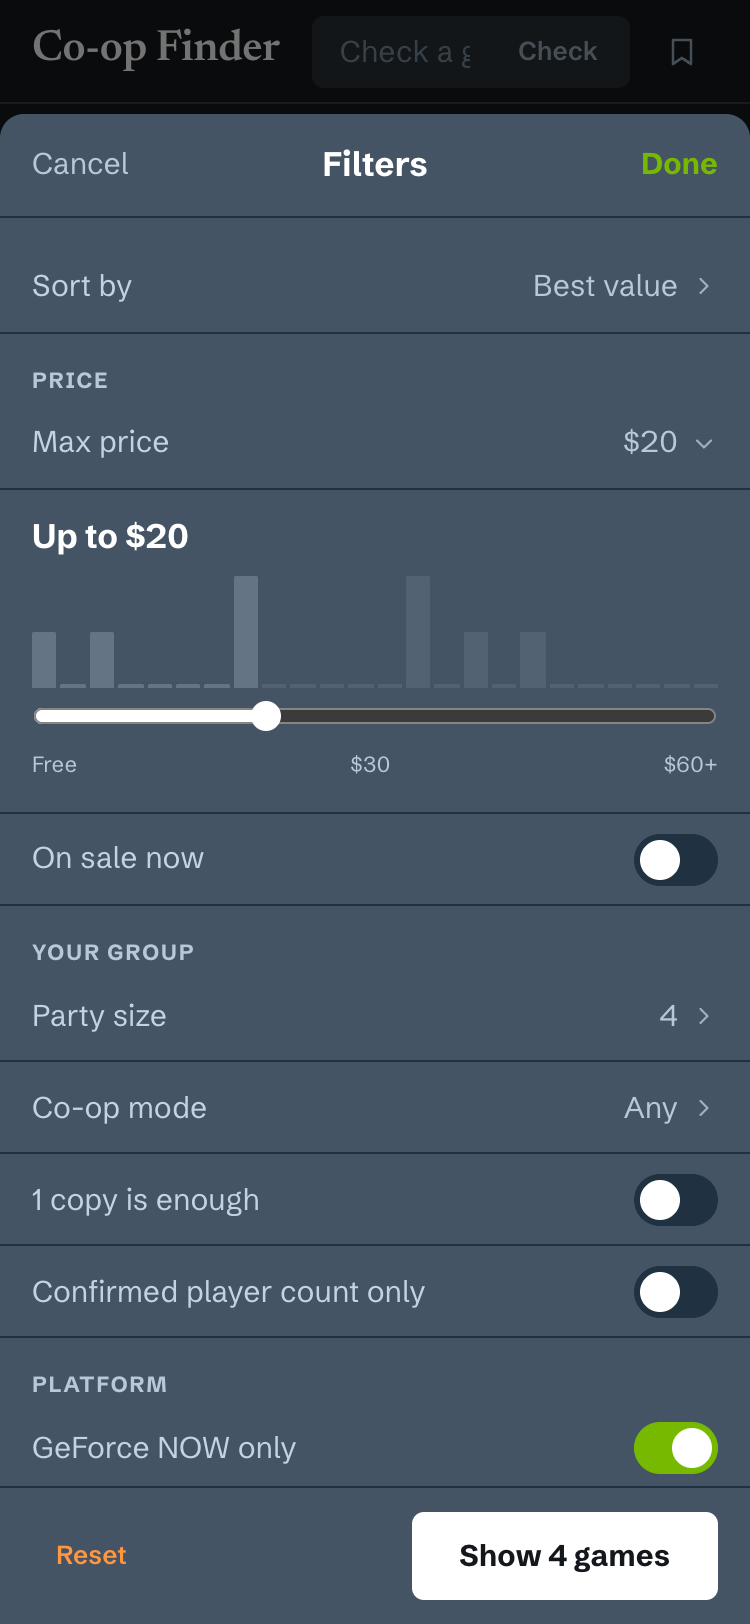
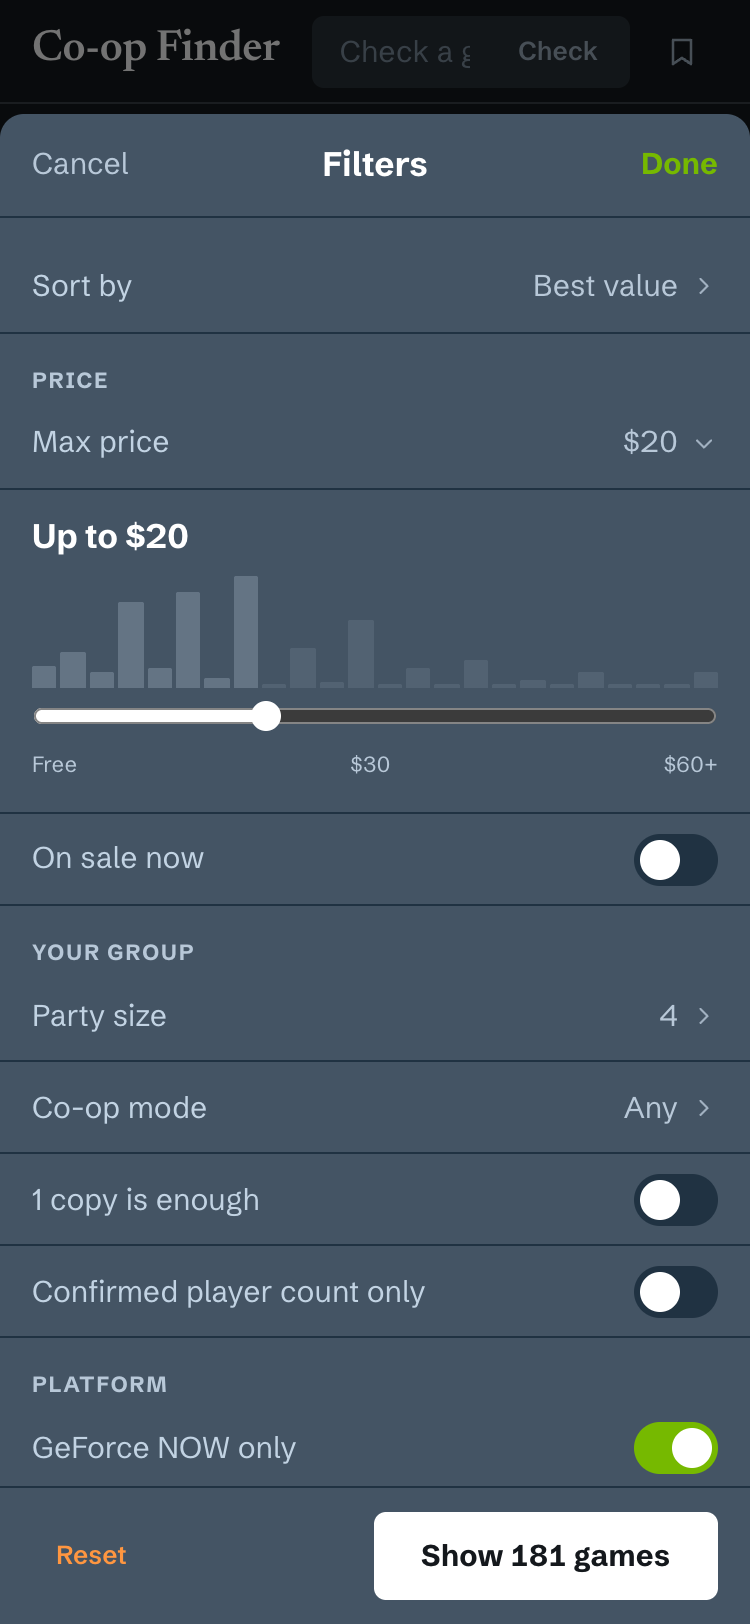
Bootstrap above-the-fold data at build time; accessible names from visible text; add Stardew Valley and Golf With Your Friends to picks

Changed region(s): [[0.0307, 0.3387, 0.3067, 0.431], [0.4907, 0.9236, 0.7667, 0.9852]]

diff --git a/src/components/Card.tsx b/src/components/Card.tsx
@@ -3,16 +3,16 @@ import { compact, groupCost, modeChips, oneCopy, playersLabel, usd, usdShort } f
 import { steamStoreUrl } from '../lib/data';
 import { Icon } from './icons';
 
-type ArtProps = { game: Game; eager?: boolean; wide?: boolean; children?: preact.ComponentChildren };
+type ArtProps = { game: Game; eager?: boolean; wide?: boolean; alt?: string; children?: preact.ComponentChildren };
 
 /** Fixed-ratio art box: portrait capsule, or the header image center-cropped when there is none. */
-export function Art({ game, eager = false, wide = false, children }: ArtProps) {
+export function Art({ game, eager = false, wide = false, alt, children }: ArtProps) {
   const src = wide ? game.img : game.cap ?? game.img;
   return (
     <div class={`art ${wide ? 'wide' : ''}`}>
       <img
         src={src}
-        alt=""
+        alt={alt ?? ''}
         width={wide ? 460 : 600}
         height={wide ? 215 : 900}
         loading={eager ? 'eager' : 'lazy'}
@@ -47,10 +47,10 @@ export function GameCard({ game: g, party, preferLocal, saved, showEa, eager, ta
   const one = oneCopy(g);
   return (
     <article class="card">
-      <a href={steamStoreUrl(g.id)} target="_blank" rel="noopener" aria-label={`${g.name} on Steam`} title="Open the Steam store page">
-        <Art game={g} eager={eager}>
+      <a href={steamStoreUrl(g.id)} target="_blank" rel="noopener" title="Open the Steam store page">
+        <Art game={g} eager={eager} alt={`${g.name} on Steam`}>
           {showEa && g.ea ? (
-            <div class="corner">
+            <div class="corner" aria-hidden="true">
               <span class="badge ea">Early Access</span>
             </div>
           ) : null}
@@ -59,7 +59,7 @@ export function GameCard({ game: g, party, preferLocal, saved, showEa, eager, ta
       <button class={`save ${saved ? 'on' : ''}`} onClick={() => onToggleSave(g)} aria-label={saved ? 'Remove from shortlist' : 'Add to shortlist'} aria-pressed={saved}>
         {saved ? <Icon.Check /> : <Icon.Plus />}
       </button>
-      <button class="details" onClick={() => onOpen(g)} aria-label={`Details for ${g.name}`}>
+      <button class="details" onClick={() => onOpen(g)}>
       <div class="name">{g.name}</div>
       <div class="price num">
         {g.price.free ? <span class="free">Free</span> : <span>{usd(g.price.now)}</span>}
@@ -113,17 +113,17 @@ type PosterProps = { game: Game; rank?: number; onOpen: (g: Game) => void; showE
 export function PosterCard({ game: g, rank, onOpen, showEa, eager }: PosterProps) {
   return (
     <div class="poster-card">
-      <a href={steamStoreUrl(g.id)} target="_blank" rel="noopener" aria-label={`${g.name} on Steam`} title="Open the Steam store page">
-        <Art game={g} eager={eager}>
-          {rank ? <span class="rank num">{rank}</span> : null}
+      <a href={steamStoreUrl(g.id)} target="_blank" rel="noopener" title="Open the Steam store page">
+        <Art game={g} eager={eager} alt={`${g.name} on Steam`}>
+          {rank ? <span class="rank num" aria-hidden="true">{rank}</span> : null}
           {showEa && g.ea ? (
-            <div class="corner">
+            <div class="corner" aria-hidden="true">
               <span class="badge ea">EA</span>
             </div>
           ) : null}
         </Art>
       </a>
-      <button class="caption" onClick={() => onOpen(g)} aria-label={`Details for ${g.name}`}>
+      <button class="caption" onClick={() => onOpen(g)}>
         <div class="name">{g.name}</div>
         <div class="meta num">
           <span class="pct">{g.rev.pct}%</span>
@@ -141,10 +141,10 @@ type EditorialProps = { game: Game; onOpen: (g: Game) => void; best?: string | n
 export function EditorialCard({ game: g, onOpen, best, eager }: EditorialProps) {
   return (
     <div class="edit-card">
-      <a href={steamStoreUrl(g.id)} target="_blank" rel="noopener" aria-label={`${g.name} on Steam`} title="Open the Steam store page">
-        <Art game={g} wide eager={eager} />
+      <a href={steamStoreUrl(g.id)} target="_blank" rel="noopener" title="Open the Steam store page">
+        <Art game={g} wide eager={eager} alt={`${g.name} on Steam`} />
       </a>
-      <button class="body" onClick={() => onOpen(g)} aria-label={`Details for ${g.name}`}>
+      <button class="body" onClick={() => onOpen(g)}>
         <span class="label">Crew pick{best ? ` · best with ${best}` : ''}</span>
         <span class="title">{g.name}</span>
         <span class="line">{g.pick}</span>

diff --git a/vite.config.ts b/vite.config.ts
@@ -1,5 +1,57 @@
 import { defineConfig, type Plugin } from 'vite';
 import preact from '@preact/preset-vite';
+import { existsSync, readFileSync } from 'node:fs';
+
+type BootGame = {
+  id: number;
+  img: string;
+  cap: string | null;
+  price: { now: number; off: number };
+  rev: { pos: number; neg: number; pct: number };
+  players: { online: number | null } | null;
+  gfn: { ok: boolean };
+  ea: boolean;
+  leftEaAt: string | null;
+  value: number;
+  pick: string | null;
+  mmo: boolean;
+};
+
+/**
+ * Inline the part of the bundled snapshot that the default home view paints
+ * above the fold, so the first render (and the LCP image) does not wait for the
+ * 1.7 MB games.json. The live file replaces it as soon as it arrives. The
+ * filter rules here mirror src/lib/filters.ts for the default filters only.
+ */
+function bootstrapData(): Plugin {
+  const file = new URL('./public/data/games.fallback.json', import.meta.url).pathname;
+  return {
+    name: 'bootstrap-data',
+    transformIndexHtml(html) {
+      if (!existsSync(file)) return html;
+      const d = JSON.parse(readFileSync(file, 'utf8')) as { generatedAt: string; tagNames: string[]; games: BootGame[] };
+      const n = (g: BootGame) => g.rev.pos + g.rev.neg;
+      const base = d.games.filter((g) => !g.ea && g.gfn.ok && !g.mmo && g.price.now <= 2000);
+      const grid = base
+        .filter((g) => g.rev.pct >= 85 && n(g) >= 200 && (g.players?.online == null || g.players.online >= 4))
+        .sort((a, b) => b.value - a.value)
+        .slice(0, 36);
+      const byValue = (a: BootGame, b: BootGame) => b.value - a.value;
+      const cutoff = Date.now() - 90 * 86400_000;
+      const picks = base.filter((g) => g.pick).sort(byValue).slice(0, 12);
+      const gems = base.filter((g) => g.rev.pct >= 90 && n(g) >= 200 && n(g) <= 5000 && g.price.now <= 1500).sort(byValue).slice(0, 12);
+      const sale = base.filter((g) => g.price.off > 0 && n(g) >= 200 && g.rev.pct >= 80).sort((a, b) => b.price.off - a.price.off || b.value - a.value).slice(0, 12);
+      const leftEa = base.filter((g) => g.leftEaAt && Date.parse(g.leftEaAt) >= cutoff && n(g) >= 200).sort((a, b) => (a.leftEaAt! < b.leftEaAt! ? 1 : -1)).slice(0, 12);
+      const chosen = new Map<number, BootGame>();
+      for (const g of [...picks, ...gems, ...sale, ...leftEa, ...grid]) chosen.set(g.id, g);
+      const subset = { generatedAt: d.generatedAt, tagNames: d.tagNames, games: [...chosen.values()], partial: true };
+      const json = JSON.stringify(subset).replace(/</g, '\\u003c');
+      const lcp = picks[0]?.img ?? gems[0]?.cap ?? grid[0]?.cap;
+      const preload = lcp ? `<link rel="preload" as="image" href="${lcp}" fetchpriority="high" />\n    ` : '';
+      return html.replace('</head>', `    ${preload}<script id="bootstrap" type="application/json">${json}</script>\n  </head>`);
+    },
+  };
+}
 
 /** Inline the single CSS bundle into index.html so first paint does not wait on a stylesheet request. */
 function inlineCss(): Plugin {
@@ -24,7 +76,7 @@ function inlineCss(): Plugin {
 }
 
 export default defineConfig({
-  plugins: [preact(), inlineCss()],
+  plugins: [preact(), bootstrapData(), inlineCss()],
   resolve: {
     alias: { '@shared': new URL('./shared', import.meta.url).pathname },
   },

diff --git a/src/app.tsx b/src/app.tsx
@@ -1,7 +1,7 @@
 import { useCallback, useEffect, useMemo, useRef, useState } from 'preact/hooks';
 import type { Game } from '@shared/types';
 import { TAG_FILTER_COUNT } from '@shared/config';
-import { loadDataset, type LoadedData } from './lib/data';
+import { loadDataset, readBootstrap, type LoadedData } from './lib/data';
 import { applyFilters, buildRows, defaultFilters, filtersFromParams, filtersToParams, isDefault, priceHistogram, summarize, weightedPick, type Filters } from './lib/filters';
 import { copyText, readShortlist, shortlistText, writeShortlist } from './lib/shortlist';
 import { TopBar } from './components/TopBar';
@@ -40,9 +40,11 @@ function urlFor(s: UrlState): string {
 }
 
 export function App() {
-  const [data, setData] = useState<LoadedData | null>(null);
-  const [loadError, setLoadError] = useState<string | null>(null);
   const [url, setUrlState] = useState<UrlState>(() => readUrl());
+  const [data, setData] = useState<LoadedData | null>(() =>
+    isDefault(url.filters) && url.view === 'home' && !url.check && !url.detailId ? readBootstrap() : null,
+  );
+  const [loadError, setLoadError] = useState<string | null>(null);
   const [filtersOpen, setFiltersOpen] = useState(false);
   const [draft, setDraft] = useState<Filters | null>(null); // filters being edited in the mobile sheet
   const [pick, setPick] = useState<Game | null | undefined>(undefined); // undefined = closed
@@ -76,8 +78,10 @@ export function App() {
   // ---- derived
   const games = data?.dataset.games ?? [];
   const tagNames = data?.dataset.tagNames ?? [];
+  const partial = !!data?.partial;
   const tagIndex = useMemo(() => new Map(tagNames.map((t, i) => [t, i])), [tagNames]);
   const tagOptions = useMemo(() => {
+    if (partial) return [];
     const freq = new Map<number, number>();
     for (const g of games) for (const t of g.tags) freq.set(t, (freq.get(t) ?? 0) + 1);
     return [...freq.entries()]
@@ -85,7 +89,7 @@ export function App() {
       .slice(0, TAG_FILTER_COUNT)
       .map(([i]) => tagNames[i]!)
       .sort((a, b) => a.localeCompare(b));
-  }, [games, tagNames]);
+  }, [games, tagNames, partial]);
 
   const results = useMemo(() => applyFilters(games, filters, tagIndex), [games, filters, tagIndex]);
   const rows = useMemo(() => buildRows(games, filters), [games, filters]);
@@ -205,7 +209,7 @@ export function App() {
 
               <div class="results-head">
                 <h1 class="num">
-                  All matches <span>{results.length.toLocaleString()}</span>
+                  All matches {partial ? null : <span>{results.length.toLocaleString()}</span>}
                 </h1>
                 <div class="actions">
                   <button class="pillbtn" onClick={() => setPick(weightedPick(results))} disabled={!results.length}>
@@ -243,7 +247,7 @@ export function App() {
             </>
           ) : null}
 
-          <Footer generatedAt={data?.dataset.generatedAt ?? null} source={data?.source ?? null} count={games.length} />
+          <Footer generatedAt={partial ? null : data?.dataset.generatedAt ?? null} source={partial ? null : data?.source ?? null} count={partial ? 0 : games.length} />
         </main>
       </div>
 

diff --git a/src/lib/data.ts b/src/lib/data.ts
@@ -7,7 +7,20 @@ export const DATA_SOURCES = [
   '/data/games.fallback.json',
 ];
 
-export type LoadedData = { dataset: Dataset; source: string; byId: Map<number, Game> };
+export type LoadedData = { dataset: Dataset; source: string; byId: Map<number, Game>; partial?: boolean };
+
+/** The above-the-fold subset the build inlined into index.html, if any. */
+export function readBootstrap(): LoadedData | null {
+  try {
+    const el = document.getElementById('bootstrap');
+    if (!el?.textContent) return null;
+    const dataset = JSON.parse(el.textContent) as Dataset;
+    if (!Array.isArray(dataset.games) || !dataset.games.length) return null;
+    return { dataset, source: 'bootstrap', byId: new Map(dataset.games.map((g) => [g.id, g])), partial: true };
+  } catch {
+    return null;
+  }
+}
 
 async function fetchWithTimeout(url: string, ms: number): Promise<Response> {
   const ctrl = new AbortController();

diff --git a/src/components/Shortlist.tsx b/src/components/Shortlist.tsx
@@ -61,7 +61,7 @@ export function Shortlist({ games, party, onOpen, onRemove, onCopy, onClear, onB
             <li key={g.id}>
               <button class="thumb" onClick={() => onOpen(g)} aria-label={g.name}>
                 <Art game={g}>
-                  <span class="rank num">{i + 1}</span>
+                  <span class="rank num" aria-hidden="true">{i + 1}</span>
                 </Art>
               </button>
               <div class="t">

diff --git a/DECISIONS.md b/DECISIONS.md
@@ -44,6 +44,9 @@ Calls made while building, in the order they came up. Each one was settled by te
 27. **Fonts are self-hosted Latin subsets built with fonttools.** Schibsted Grotesk ships `tnum`, so no font switch was needed; Newsreader is instanced to wght 400-700 and opsz 18-72 before subsetting. Italics are not shipped.
 28. **Desktop reuses the phone system.** The filter sheet becomes a sticky left rail with the same rows (accordion controls), the grid widens to 5-8 columns, and detail / check / pick open as a right side sheet.
 
+31. **The build inlines an above-the-fold bootstrap into index.html.** With the real dataset (1.7 MB raw, about 330 KB over the wire) Lighthouse's mobile simulation put the largest contentful paint at 6.4 s and the performance score at 77, because the first poster could not be requested until the JSON had arrived and rendered. The Vite build now reads the bundled snapshot and inlines the games the default home view paints above the fold (12 per row plus the first 36 of the grid, 55 games, about 16 KB gzipped) as a JSON script tag, and preloads the first Crew Picks image. The app renders from that immediately and swaps in the live file when it arrives; counts, tag options and the footer date wait for the live file so nothing stale is shown as a fact. The bootstrap is only used when the URL is the default view (no filters, no game, no check), so a shared link never shows a subset. games.json itself is unchanged and still carries every field in the brief's schema.
+32. **GeForce NOW's catalog includes "Install-to-Play" titles.** NVIDIA's games page says premium members get 2,200+ Install-to-Play games on top of the Ready-to-Play library; the catalog API does not expose which is which (no field name we tried validates), so `gfn.ok` means "in NVIDIA's GeForce NOW library", which may require the Ultimate or Performance tier and an install step for some titles. The spot checks (Brotato, Flock Around, PEAK present; WEBFISHING absent) matched the public search.
+
 ## Deployment
 
 29. **Netlify is a manual step for the owner.** `gh` was logged in, so the repository, the data branch and the workflow were set up from here. The Netlify CLI was not installed or logged in and signing in needs the owner's browser session, so connecting the site is documented in README.md step 2 instead.

diff --git a/pipeline/PROBE.md b/pipeline/PROBE.md
@@ -142,6 +142,10 @@ Generated by `pipeline/probe.ts` on 2026-11-13T18:48:24.150Z. Raw responses are 
 - Early Access in appdetails is genre id "70" (`genres[].id` is a string there). In GetItems it is `is_early_access: true`. Content descriptors: GetItems `content_descriptorids`, appdetails `content_descriptors.ids`; 3 and 4 are the adult-only ones (seen in the wild: 1, 2, 5).
 - `IStoreService/GetTagList/v1/?language=english`: HTTP 200, 446 tags (`tagid`, `name`). Co-op related: 1685=Co-op, 3843=Online Co-Op, 3841=Local Co-Op, 4508=Co-op Campaign, 10816=Split Screen, 4840=4 Player Local, 7368=Local Multiplayer. GetItems returns tag ids, so this is the tag-name source (no SteamSpy appdetails needed).
 
+## Note added after the first full run
+
+NVIDIA's games page distinguishes Ready-to-Play titles from 2,200+ Install-to-Play titles (premium tiers). The catalog API returns both and no field we could find separates them, so the pipeline's GeForce NOW flag means "listed in NVIDIA's library".
+
 ## Decisions taken from this probe
 
 1. **GeForce NOW comes from the GraphQL catalog, not the static file.** The static file still responds, so a naive check would have called it healthy; its `last-modified` and the missing 2024+ titles prove it is frozen. `optimized` is null for every game until NVIDIA exposes a flag again.
